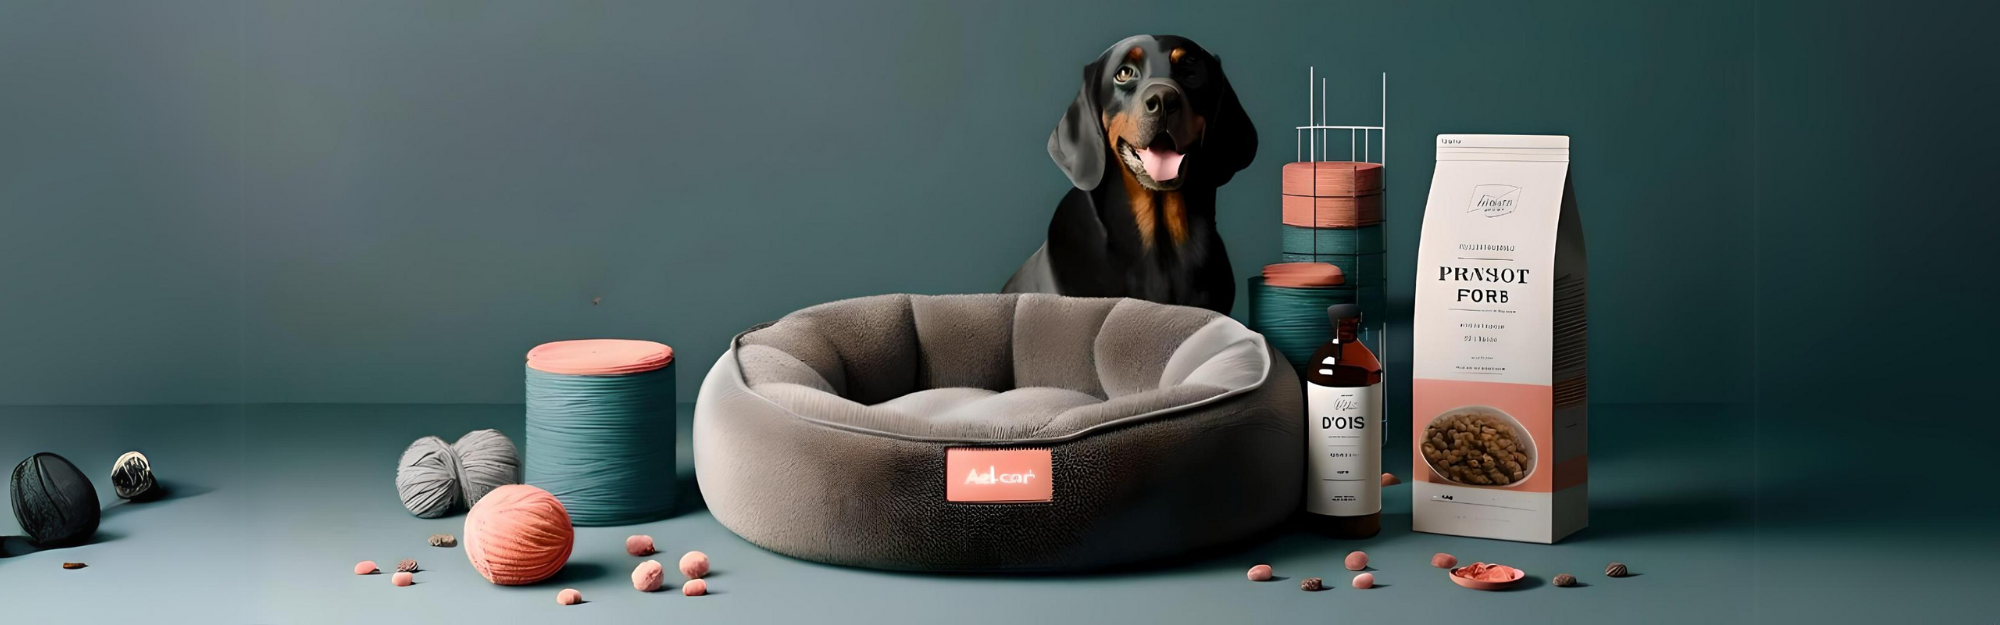
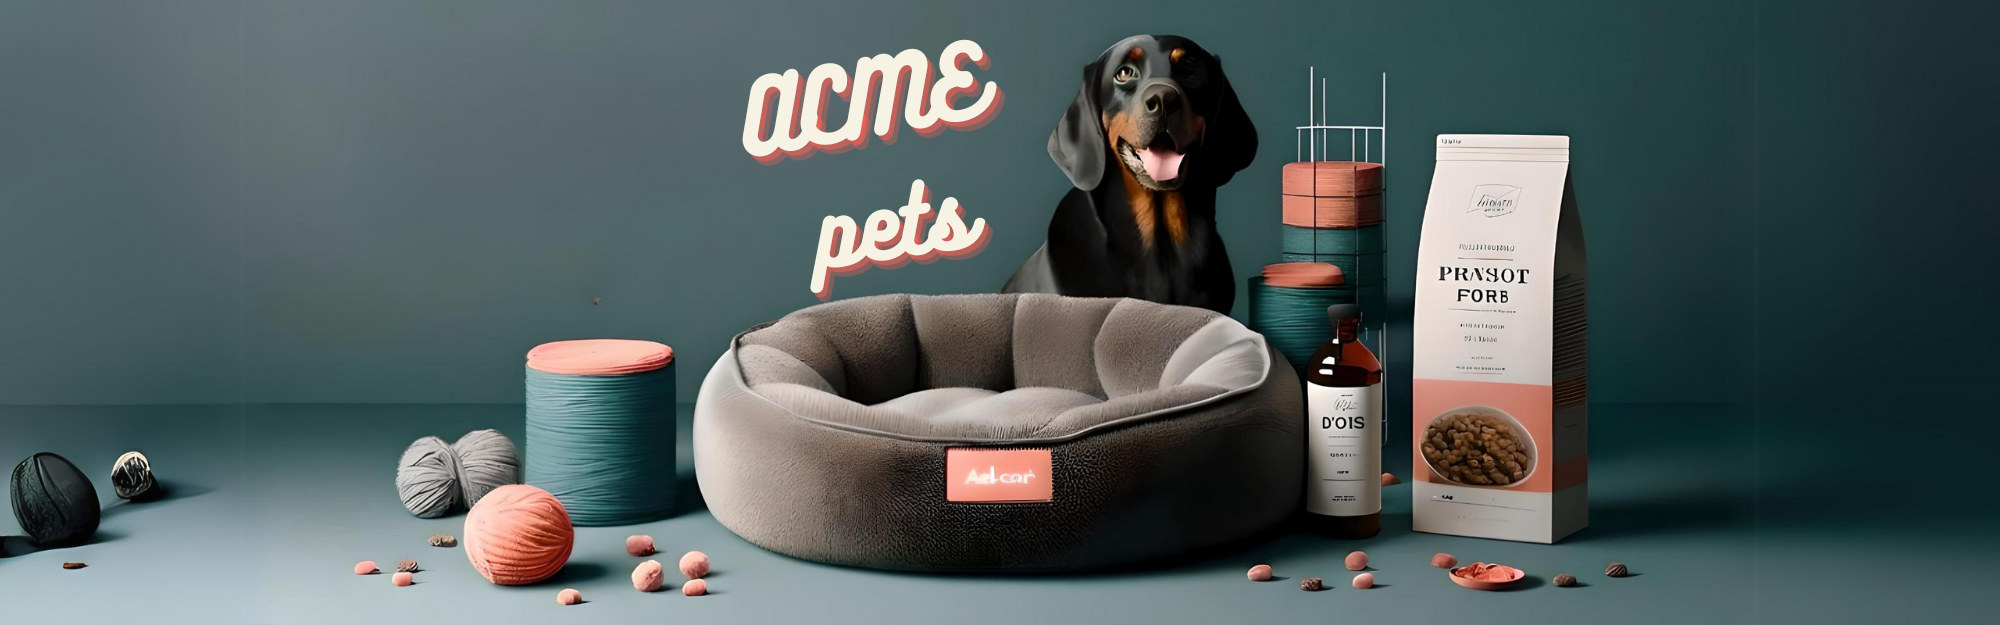
updates

Changed region(s): [[0.372, 0.0608, 0.527, 0.2736], [0.403, 0.2736, 0.496, 0.4864]]

diff --git a/frontend/src/components/Product/Product.jsx b/frontend/src/components/Product/Product.jsx
@@ -67,23 +67,28 @@ function ProductDetails({ product }) {
 
   return (
     <div className={styles.productDetails}>
-      <div className={styles.productHeader}>
-        <h3 className={styles.productTitle}>{product.name}</h3>
-        <button
-          onClick={handleOneClickBuy}
-          className={styles.oneClickBuy}
-          to="/cart"
-        >
-          <DollarSign />
-          <MousePointer />
-        </button>
-        <h3 className={styles.productPrice}>${product.price.amount}</h3>
-        <div className={styles.priceBubble}></div>
-      </div>
-      <div className={styles.reviews}>
-        <span className={styles.stars}>{stars}</span>
-        <span> {product.rating.value}</span>
-        <span> ({product.rating.count})</span>
+      <div>
+        <div className={styles.productHeader}>
+          <h3 className={styles.productTitle}>{product.name}</h3>
+          <button
+            onClick={handleOneClickBuy}
+            className={styles.oneClickBuy}
+            to="/cart"
+          >
+            <DollarSign />
+            <MousePointer />
+          </button>
+          <h3 className={styles.productPrice}>${product.price.amount}</h3>
+          <div className={styles.priceBubble}></div>
+        </div>
+        <div className={styles.reviews}>
+          <span className={styles.stars}>{stars}</span>
+          <span> {product.rating.value}</span>
+          <span> ({product.rating.count})</span>
+        </div>
+        <div className={styles.textContainer}>
+          <p className={styles.productDescription}>{product.description}</p>
+        </div>
       </div>
       <div className={styles.addToCart}>
         <input
@@ -101,9 +106,6 @@ function ProductDetails({ product }) {
           {!showAddConfirmation && "Add to cart"}
           {showAddConfirmation && <CheckCircle className={styles.checkmark} />}
         </Button>
-      </div>
-      <div className={styles.textContainer}>
-        <p className={styles.productDescription}>{product.description}</p>
       </div>
     </div>
   );

diff --git a/frontend/src/components/Header/Header.module.css b/frontend/src/components/Header/Header.module.css
@@ -4,22 +4,29 @@
 }
 
 .navbar {
+  padding: 6px;
   background-color: inherit;
   display: flex;
   justify-content: center;
   column-gap: 36px;
-  position: absolute;
   bottom: 0;
   width: 100%;
   background-color: transparent;
+  background-color: var(--dark);
 }
 
 .navbar a {
   color: var(--white);
   min-width: 80px;
   font-size: 1.25rem;
-  font-family: "Eczar", sans-serif;
+  font-family: "Arial", sans-serif;
   text-align: center;
+  color: var(--white);
+  font-weight: 600;
+}
+
+.navbar :global(a.active) {
+  text-decoration: underline;
 }
 
 .headerImage {
@@ -34,23 +41,39 @@
   justify-content: center;
 }
 
+.heading {
+  position: absolute;
+  top: 48px;
+  left: 10%;
+  font-size: min(5rem, calc(5vw + 12px));
+  color: var(--hl);
+  max-width: 400px;
+  text-align: center;
+  background: -webkit-linear-gradient(var(--hl), var(--white));
+  background: linear-gradient(90deg, var(--white) 0%, var(--hl) 100%);
+  -webkit-background-clip: text;
+  background-clip: text;
+  -webkit-text-fill-color: transparent;
+  filter: drop-shadow(3px 3px 3px black);
+}
+
+@media screen and (max-width: 1000px) {
+  .heading {
+    left: 0;
+    width: 100%;
+    max-width: unset;
+    top: 72px;
+  }
+}
+
 @media screen and (max-width: 660px) {
   .navbar a {
     min-width: 0;
   }
 }
 
-@media screen and (max-width: 500px) {
-  .navbar {
-    padding: 16px;
-  }
-}
-
 @media screen and (max-width: 728px) {
-  /* .slideDown {
-    padding-top: 32px;
-  } */
   .headerImage {
-    min-height: 200px;
+    min-height: 250px;
   }
 }

diff --git a/frontend/src/components/Product/Product.module.css b/frontend/src/components/Product/Product.module.css
@@ -7,7 +7,7 @@
   position: relative;
   overflow: hidden;
   width: 325px;
-  height: 425px;
+  /* height: 425px; */
   flex-direction: column;
 }
 
@@ -19,6 +19,11 @@
 }
 
 .productDetails {
+  color: var(--dark-slate-gray);
+  height: 100%;
+  display: flex;
+  flex-direction: column;
+  justify-content: space-between;
   border-radius: inherit;
   padding: 16px;
   background-color: rgba(255, 255, 255, 0.288);
@@ -114,7 +119,7 @@
   flex-direction: column;
   justify-content: center;
   align-items: center;
-  margin-top: 16px;
+  margin: 16px 0;
 }
 
 @media screen and (max-width: 500px) {
@@ -125,7 +130,7 @@
 
 @media only screen and (min-width: 501px) {
   .textContainer {
-    height: 50%;
+    /* height: 50%; */
     margin-top: 0;
   }
 
@@ -140,10 +145,10 @@
     flex-basis: 40%;
   }
 
-  .oneClickBuy {
+  /* .oneClickBuy {
     position: absolute;
     left: 8px;
-  }
+  } */
 
   .oneClickBuy svg {
     height: 18px;

diff --git a/frontend/src/components/Header/Header.jsx b/frontend/src/components/Header/Header.jsx
@@ -24,15 +24,9 @@ export default function Header() {
 
   return (
     <header className={classes(styles.header, styles.slideDown)}>
+      {/* <h1 className={styles.heading}>Acme Pet Supplies</h1> */}
       {user && <LogOutDropDown logoutHandler={logout} label={user.email} />}
-      <div className={styles.imgContainer}>
-        {/* <Link to="/">
-          <img src={logo} className={styles.headerImage} />
-        </Link> */}
-      </div>
-
       <img src={acme_header} className={styles.headerImage} />
-
       <nav data-testselector="navbar" className={styles.navbar}>
         <NavLink to="/">Shop</NavLink>
         <NavLink to="cart">{cartDisplay}</NavLink>

diff --git a/frontend/webpack/webpack.common.js b/frontend/webpack/webpack.common.js
@@ -29,7 +29,7 @@ module.exports = {
             loader: "css-loader",
             options: {
               importLoaders: 1,
-              modules: true,
+              modules: { localIdentName: "[local]--[hash:base64:5]" },
             },
           },
         ],

diff --git a/frontend/src/components/Shop/Shop.module.css b/frontend/src/components/Shop/Shop.module.css
@@ -1,8 +1,9 @@
 .productList {
   padding-top: 48px;
+  padding-bottom: 48px;
   display: flex;
   flex-wrap: wrap;
   row-gap: 48px;
   column-gap: 48px;
-  justify-content: flex-start;
+  justify-content: center;
 }

diff --git a/frontend/src/index.css b/frontend/src/index.css
@@ -56,10 +56,6 @@ body {
   height: 100%;
 }
 
-a.active {
-  text-decoration: underline;
-}
-
 /* Fonts */
 @font-face {
   font-family: "Eczar";

diff --git a/frontend/src/components/CartItem/CartItem.module.css b/frontend/src/components/CartItem/CartItem.module.css
@@ -15,6 +15,7 @@
 }
 
 .details {
+  color: var(--dark-slate-gray);
   padding: 8px;
   display: flex;
   flex-direction: column;
